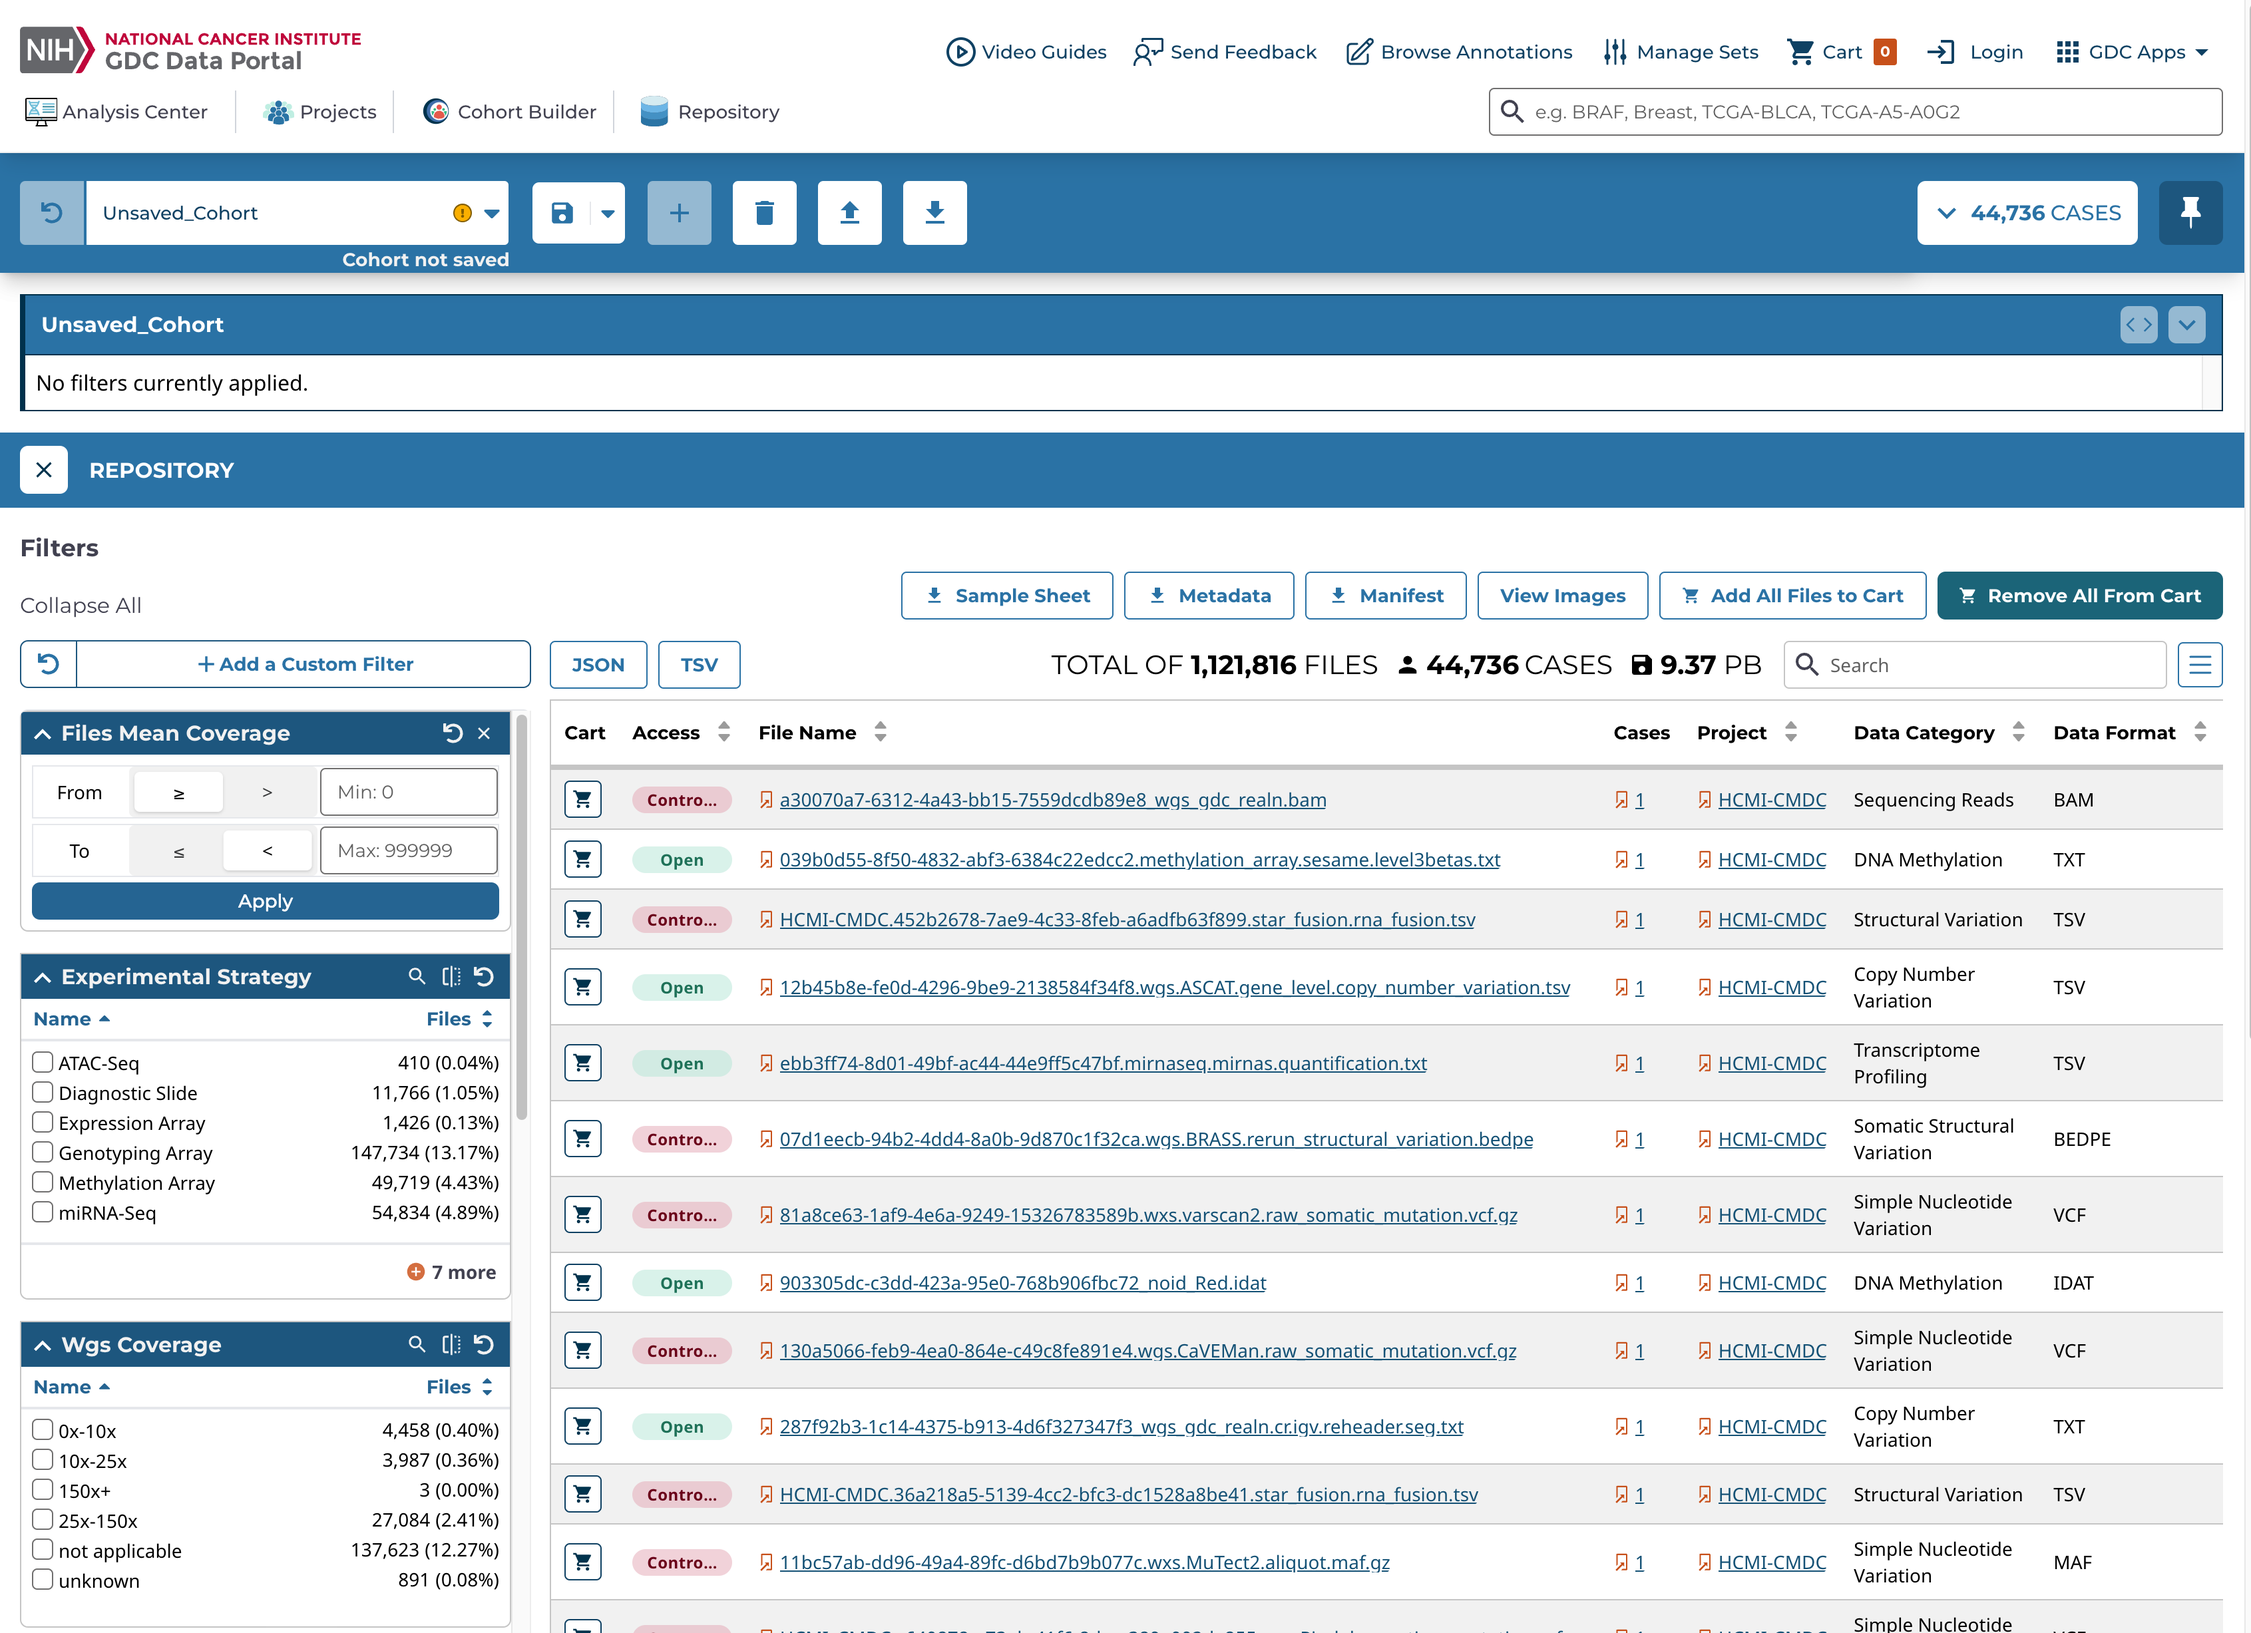
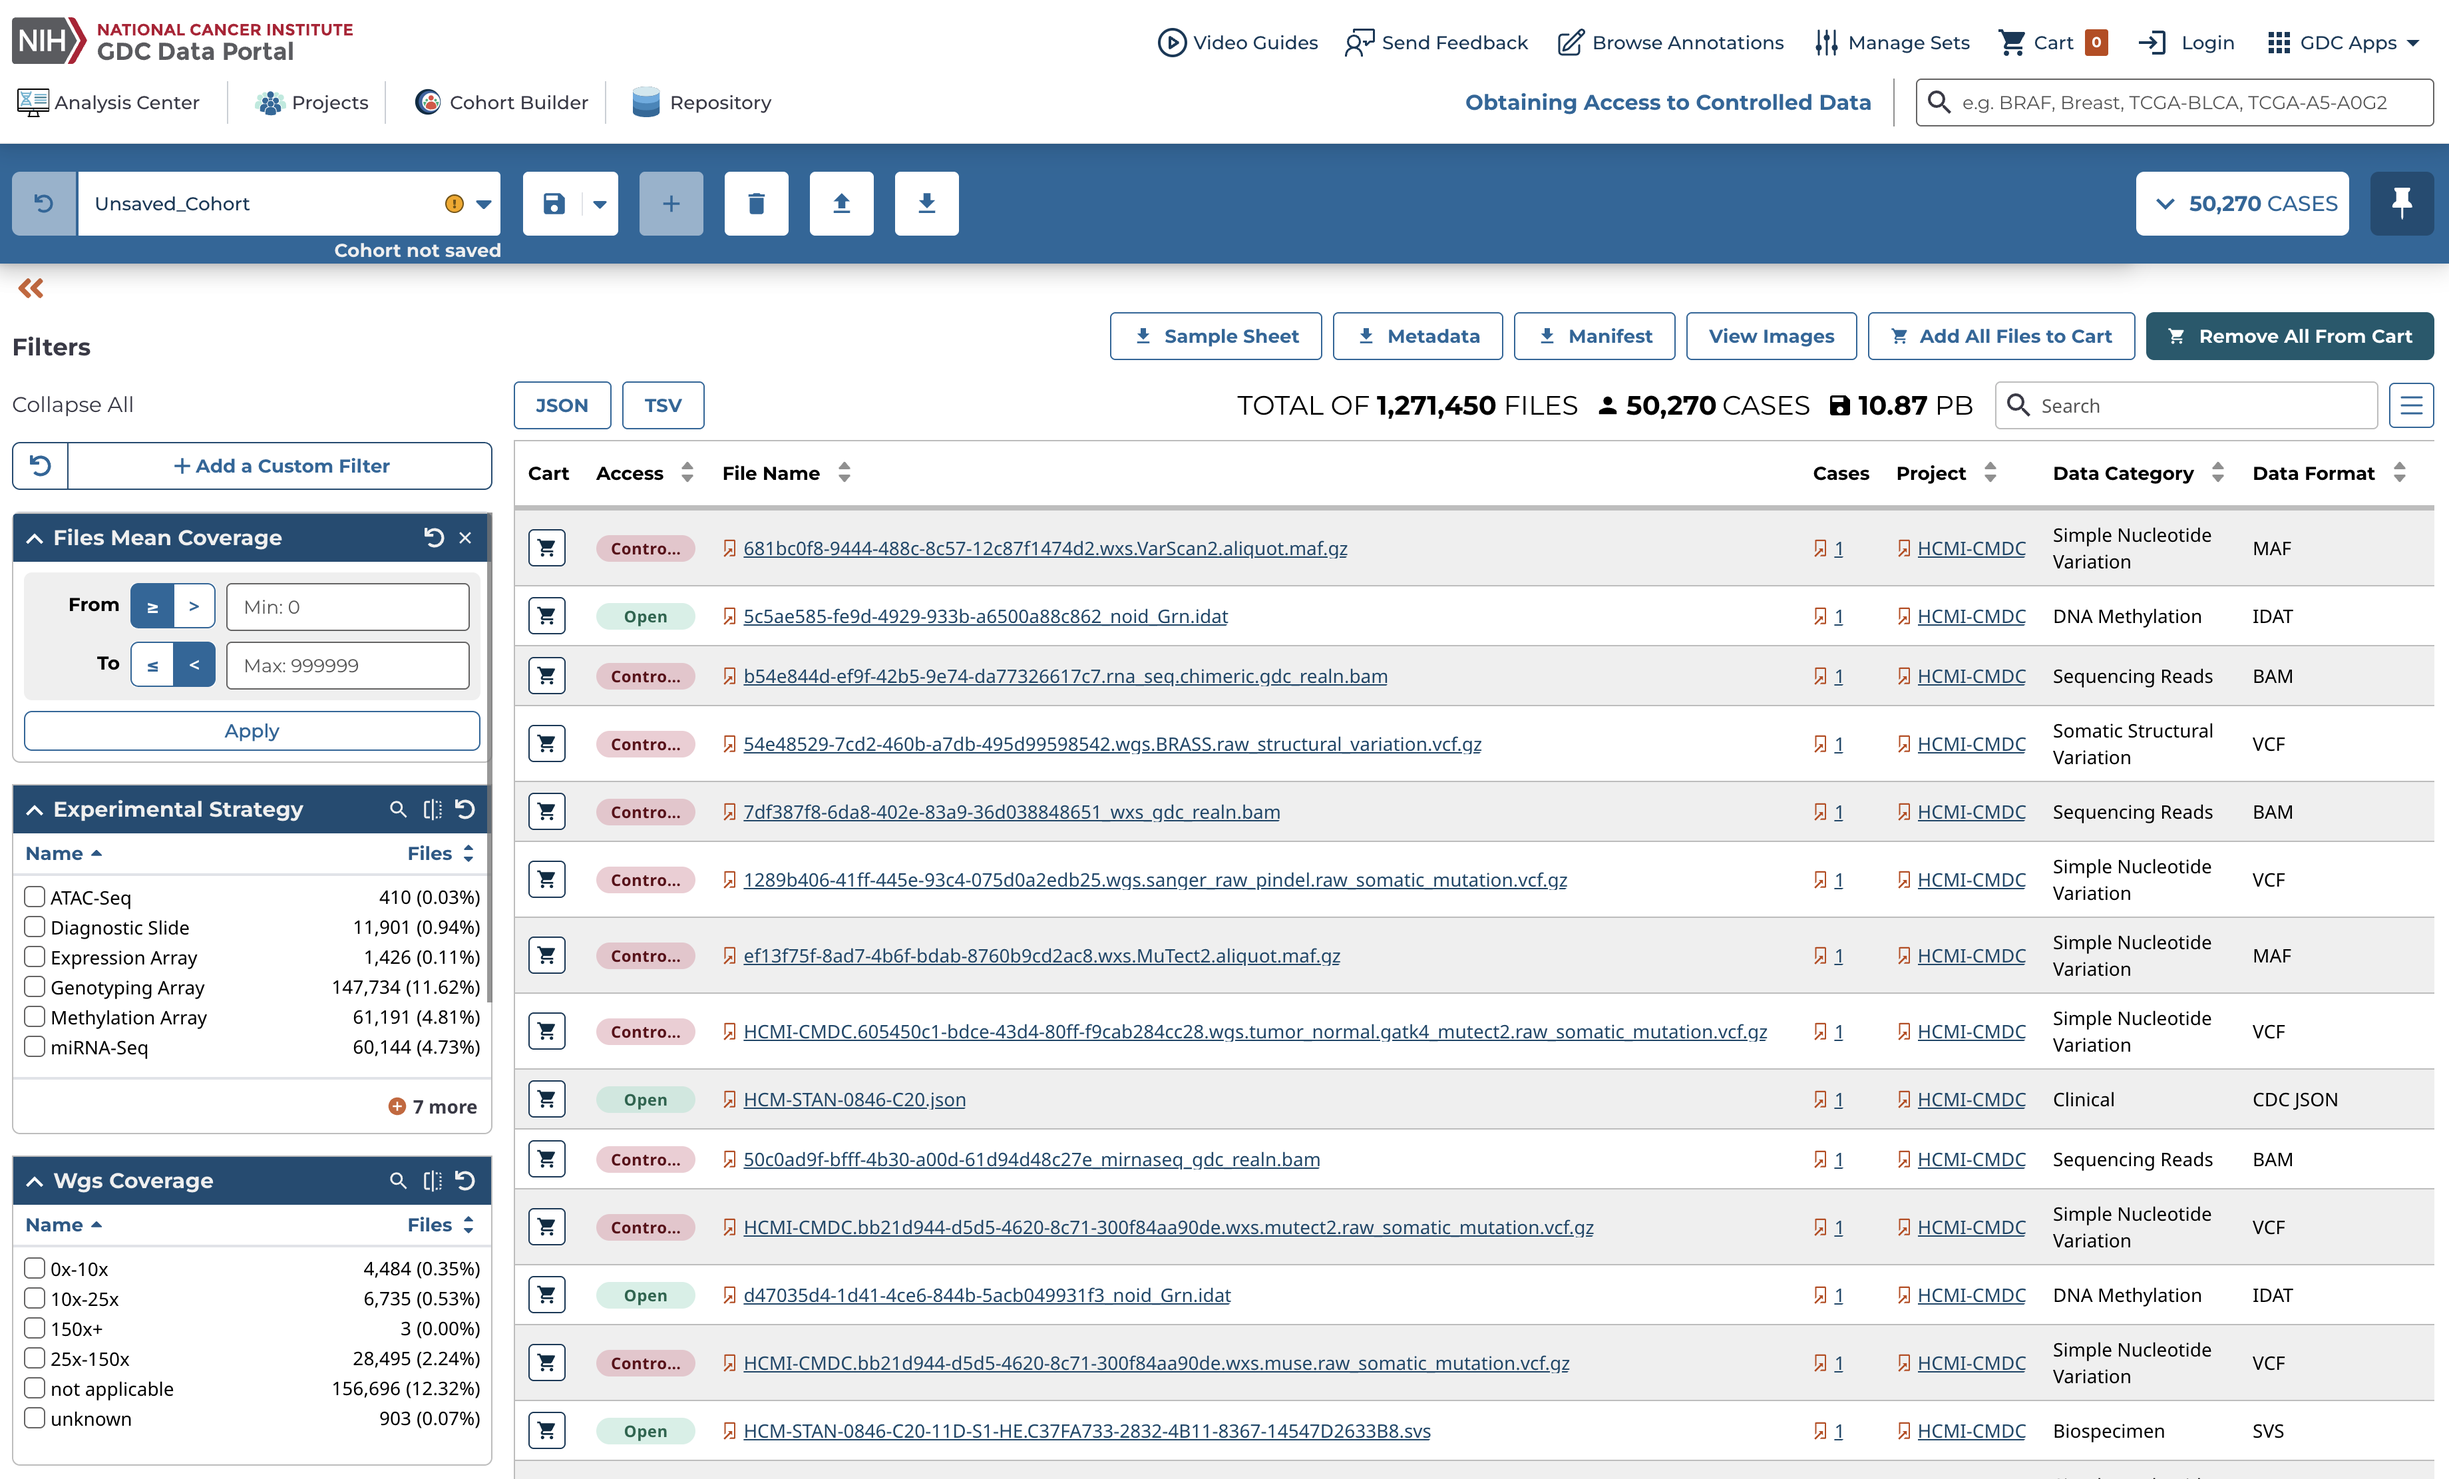
updates UC data portal docs for uhlenbeck, also replaces gender with sex at birth

Changed region(s): [[0.0, 0.0, 1.0, 1.0], [0.4657, 0.0, 0.5278, 0.0311]]

diff --git a/docs/Data_Portal/Users_Guide/cohort_builder.md b/docs/Data_Portal/Users_Guide/cohort_builder.md
@@ -103,15 +103,15 @@ Depending on how they are modified or created, cohorts can have different types 
 A very common way to modify a cohort is by using the filters in the Cohort Builder. Using the filters in the Cohort Builder to build a cohort will create a cohort with custom queries (see note below for an exception). Examples of cohorts with custom queries would be:
 
 1. All cases in the `TCGA-BRCA` project.
-1. Cases with a primary site of `brain` and a gender of `male`.
+1. Cases with a primary site of `bronchus and lung` and at least `30` pack years smoked.
 
 Cohorts based on custom queries will change depending on the data available. For example, if a data release adds cases to the TCGA-BRCA project, the first cohort example will include the new cases automatically and increase in size. 
 
 The query expression section will display these custom queries with information about the properties and values that were applied as filters to the cohort.
 
-[![Query Expressions section with TCGA-BRCA cohort](images/QueryExpressionsTCGABRCA.png)](images/QueryExpressions.png "Click to see the full image.")
+[![Query Expressions section with TCGA-BRCA cohort](images/QueryExpressionsTCGABRCA.png)](images/QueryExpressionsTCGABRCA.png "Click to see the full image.")
 
-[![Query Expressions section with male brain cancer cohort](images/QueryExpressionsBrainMale.png)](images/QueryExpressionsBrainMale.png "Click to see the full image.")
+[![Query Expressions section with lung cancer cohort with at least 30 pack years smoked](images/QueryExpressionsLungPackYears.png)](images/QueryExpressionsLungPackYears.png "Click to see the full image.")
 
 **NOTE:** The Case ID filter in the Cohort Builder will result in a cohort based on a specific list of cases.
 

diff --git a/docs/Data_Portal/Users_Guide/getting_started.md b/docs/Data_Portal/Users_Guide/getting_started.md
@@ -24,6 +24,7 @@ On the right are the following features:
 * **Manage Sets**: review gene and mutation sets that have been saved, upload new sets, and delete existing sets
 * **Cart**: the data files that are ready for download
 * **Login**: allows authentication for access to [controlled access datasets](../../Encyclopedia/pages/Controlled_Access.md). Once authentication is successful, the eRA Commons username will be displayed in place of the "Login" button. Clicking on the username will then allow users to see which projects they have access to and to download an [authentication token](../../Data/Data_Security/Data_Security.md#authentication-tokens) for use with the [GDC Data Transfer Tool](../../Data_Transfer_Tool/Users_Guide/Getting_Started.md) and the [API](../../API/Users_Guide/Getting_Started.md).
+* **Obtaining Access to Controlled Data**: a link to information on how to obtain access to controlled data
 * **GDC Applications**: contains links to other GDC sites and applications
 * **Search**: search for a single project, case, file, gene, mutation, or annotation within the GDC Data Portal
 

diff --git a/docs/Data_Portal/Users_Guide/mutation_frequency.md b/docs/Data_Portal/Users_Guide/mutation_frequency.md
@@ -55,7 +55,7 @@ The summary section of the gene page contains the following information:
 
 __External References__
 
-A list with links that lead to external databases with additional information about each gene is displayed here. These external databases include: [Entrez](https://www.ncbi.nlm.nih.gov/gquery/), [Uniprot](http://www.uniprot.org/), [Hugo Gene Nomenclature Committee](http://www.genenames.org/), [Online Mendelian Inheritance in Man](https://www.omim.org/), [Ensembl](http://may2015.archive.ensembl.org/index.html), and [CIViC](https://civicdb.org/home).
+A list with links that lead to external databases with additional information about each gene is displayed here. These external databases include: [Entrez](https://www.ncbi.nlm.nih.gov/gquery/), [Uniprot](http://www.uniprot.org/), [Hugo Gene Nomenclature Committee](http://www.genenames.org/), [Online Mendelian Inheritance in Man](https://www.omim.org/), [Ensembl](http://may2015.archive.ensembl.org/index.html), [CIViC](https://civicdb.org/home), and [GeneCards](https://www.genecards.org/).
 
 __Cancer Distribution__
 

diff --git a/docs/Data_Portal/Users_Guide/Repository.md b/docs/Data_Portal/Users_Guide/Repository.md
@@ -81,16 +81,18 @@ Select the Manifest button above the table to generate a manifest file required 
 ### Adding/Removing Files to the Cart for Download ###
 
 Downloads can also be performed using the Cart by first adding a set of files to the Cart. This can be done using the following methods:
+
 * Clicking the cart icon on the left of each file. This will toggle between adding to and removing the file from the cart.
 * Selecting the Add All Files to Cart button. This will add all the files in the current cohort to the Cart, subject to any filtering that has been applied in the Repository.
 
-[![Add Files To Cart](images/AddFilesToCart.png)](images/AddFilesToCart.png "Click to see the full image.")
+[![Add Files To Cart](images/AddFilestoCart.png)](images/AddFilesToCart.png "Click to see the full image.")
 
 ### Cart
 
 The Cart page can then be reached by clicking the Cart icon at the top right of the portal.
 
 At the upper-right of the page is a summary of all files currently in the cart:
+
 * Number of files
 * Number of cases associated with the files
 * Total file size

diff --git a/docs/Data_Portal/Users_Guide/cohort_comparison.md b/docs/Data_Portal/Users_Guide/cohort_comparison.md
@@ -8,7 +8,7 @@ The Cohort Comparison tool displays graphs and tables that demonstrate the simil
 
 * A selectable survival plot that compares both sets with information about the percentage of represented cases
 
-* A breakdown of each cohort by selectable clinical facets with a bar graph and table. The facets included are `Vital_Status`, `Gender`, `Race`, `Ethnicity`, and `Age_at_Diagnosis`. A p-value (if it can be calculated from the data) that demonstrates whether the statuses are proportionally represented is displayed for the `Vital_Status`, `Gender`, and `Ethnicity` facets.
+* A breakdown of each cohort by selectable clinical facets with a bar graph and table. The facets included are `Ethnicity`, `Sex at Birth`,  `Race`, `Vital_Status`, and `Age_at_Diagnosis`. A p-value (if it can be calculated from the data) that demonstrates whether the statuses are proportionally represented is displayed for the `Ethnicity`, `Sex at Birth`, and `Vital_Status` facets.
 
 * Additional cohorts can be created containing subsets of these two cohorts
 

diff --git a/docs/Data_Portal/Users_Guide/clinical_data_analysis.md b/docs/Data_Portal/Users_Guide/clinical_data_analysis.md
@@ -17,7 +17,7 @@ The Clinical Data Analysis tool allows for a set of customizable charts to be ge
 
 * In the Analysis Center, select the *Clinical Data Analysis* tool card.
 
-* In the Clinical Data Analysis tool, use the control panel on the left side of the analysis to display which clinical variables you want.  To enable or disable specific variables for display, click the on/off toggle controls:
+* In the Clinical Data Analysis tool, use the control panel on the left side of the analysis to display which clinical variables you want. Select the "Only show properties with data" option to limit the list to only the variables that are populated with values for the current cohort. To enable or disable specific variables for display, click the on/off toggle controls:
 
 [![Enable Clinical Cards](images/CDACards.png)](images/CDACards.png "Click to see the full image.")
 

diff --git a/docs/Data_Portal/Users_Guide/analysis_center.md b/docs/Data_Portal/Users_Guide/analysis_center.md
@@ -18,7 +18,7 @@ Available tools are displayed under the Query Expression section of the Analysis
 
 The 'Core Tools' section contains the GDC tools that constitute the main functionality of the Data Portal.
 
-* [Projects](Projects.md) tool
+* [Projects](Projects.md)
 * [Cohort Builder](cohort_builder.md)
 * [Repository](Repository.md)
 
